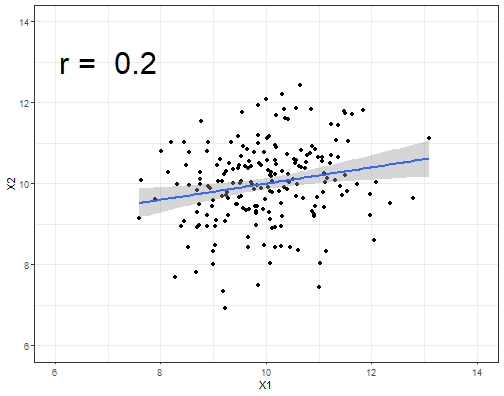
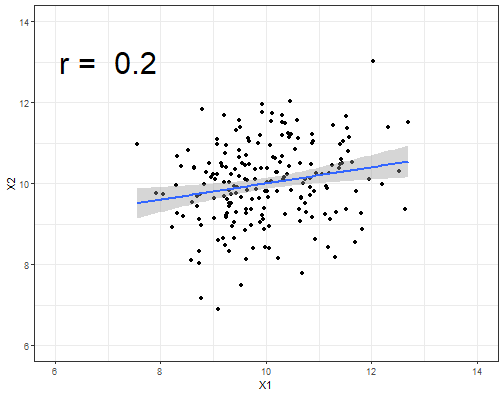
Lecture 1 updates

diff --git a/Lecture-01-messy-data.html b/Lecture-01-messy-data.html
@@ -65,22 +65,22 @@ Join the class workspace on RStudio.cloud.
 ## # A tibble: 16 x 4
 ##    Participant Viewpoint Block     RT
 ##          &lt;int&gt; &lt;fct&gt;     &lt;chr&gt;  &lt;dbl&gt;
-##  1           1 Different First   505.
-##  2           1 Different Second  451.
-##  3           1 Same      First   469.
-##  4           1 Same      Second  482.
-##  5           2 Different First   574.
-##  6           2 Different Second  365.
-##  7           2 Same      First   462.
-##  8           2 Same      Second  388.
-##  9           3 Different First   578.
-## 10           3 Different Second  402.
-## 11           3 Same      First   553.
-## 12           3 Same      Second  411.
-## 13           4 Different First   560.
-## 14           4 Different Second  376.
-## 15           4 Same      First   472.
-## 16           4 Same      Second  394.
+##  1           1 Different First   440.
+##  2           1 Different Second  440.
+##  3           1 Same      First   461.
+##  4           1 Same      Second  378.
+##  5           2 Different First   553.
+##  6           2 Different Second  362.
+##  7           2 Same      First   588.
+##  8           2 Same      Second  308.
+##  9           3 Different First   554.
+## 10           3 Different Second  378.
+## 11           3 Same      First   497.
+## 12           3 Same      Second  393.
+## 13           4 Different First   605.
+## 14           4 Different Second  337.
+## 15           4 Same      First   505.
+## 16           4 Same      Second  481.
 ```
 ]
 .pull-right[
@@ -161,13 +161,13 @@ t.test(RT~Block, data = example_rt_df)
 ## 	Welch Two Sample t-test
 ## 
 ## data:  RT by Block
-## t = 15.903, df = 190.76, p-value &lt; 2.2e-16
+## t = 17.945, df = 192.83, p-value &lt; 2.2e-16
 ## alternative hypothesis: true difference in means is not equal to 0
 ## 95 percent confidence interval:
-##   86.2677 110.6969
+##   99.84277 124.49988
 ## sample estimates:
 ##  mean in group First mean in group Second 
-##             502.2756             403.7933
+##             508.7604             396.5891
 ```
 
 ---
@@ -187,10 +187,10 @@ aov_ez(dv = "RT",
 ## Anova Table (Type 3 tests)
 ## 
 ## Response: RT
-##            Effect    df     MSE          F   ges p.value
-## 1           Block 1, 49 2285.87 212.15 ***   .56  &lt;.0001
-## 2       Viewpoint 1, 49 2188.61       1.46  .008     .23
-## 3 Block:Viewpoint 1, 49 1161.32       0.05 .0001     .83
+##            Effect    df     MSE          F    ges p.value
+## 1           Block 1, 49 1837.04 342.46 ***    .62  &lt;.0001
+## 2       Viewpoint 1, 49 1744.11       0.01 &lt;.0001     .92
+## 3 Block:Viewpoint 1, 49 2406.41       0.60   .004     .44
 ## ---
 ## Signif. codes:  0 '***' 0.001 '**' 0.01 '*' 0.05 '+' 0.1 ' ' 1
 ```
@@ -237,16 +237,16 @@ Data can be *missing*...
 
 ```
 ##           X1        X2
-## 1         NA  9.695420
-## 2         NA  9.621483
-## 3         NA 10.723804
-## 4         NA 10.386785
-## 5         NA  7.815597
-## 6   9.376787        NA
-## 7  10.182705        NA
-## 8   9.466135 11.174322
-## 9  11.053890 10.538513
-## 10  9.179338  7.334967
+## 1         NA  7.488500
+## 2         NA 10.586179
+## 3         NA 11.387960
+## 4         NA  6.895894
+## 5         NA 13.008935
+## 6   8.744998        NA
+## 7  10.090868        NA
+## 8   9.394213  9.043452
+## 9  10.014256 10.034693
+## 10  9.294777  9.518317
 ```
 Complete cases = 193
 ]
@@ -511,17 +511,13 @@ Reciprocal | 1 / X|
 ---
 # Transformation of skewed data
 
-The different transformations each have different effects on the data, but the general pattern is that they (mostly) reduce the skew, bringing extreme values closer to the centre of the distribution.
+The different transformations each have different effects on the data, but the general pattern on right-tailed data is that they (mostly) reduce the skew, bringing extreme values closer to the centre of the distribution. The transformations aren't as effective on left-tailed data.
 
+Moral: consider alternatives to transformations... (see later!)
+.pull-left[
 ![](Lecture-01-messy-data_files/figure-html/unnamed-chunk-24-1.png)&lt;!-- --&gt;
-
-
----
-# Transformations on left-tailed data
-
-The transformations aren't as effective on left-tailed data.
-
-.center[
+]
+.pull-right[
 ![](Lecture-01-messy-data_files/figure-html/unnamed-chunk-25-1.png)&lt;!-- --&gt;
 ]
 
@@ -560,16 +556,16 @@ For example, all your participants filled out three different questionnaires. Un
 
 ```
 ##           X1        X2       X3
-## 1         NA 10.576818 14.13549
-## 2         NA  8.387305 11.94744
-## 3         NA  9.826288 11.21480
-## 4         NA 10.293933 12.47408
-## 5         NA 10.577984 13.65410
-## 6   9.470200 10.443275 13.45557
-## 7  10.489298  8.246108 13.69352
-## 8   8.563670  8.531161 11.85204
-## 9  10.841521  9.653558 12.73267
-## 10  9.340633  9.811812 12.06431
+## 1         NA  8.876666 12.12049
+## 2         NA  8.643999 10.32451
+## 3         NA  8.659720 12.43256
+## 4         NA 10.804931 12.47942
+## 5         NA  9.336932 15.14802
+## 6  10.335008  8.919503 12.58195
+## 7   9.370765  9.399255 11.84693
+## 8   8.369429  8.824399 14.39454
+## 9   9.990678  8.516881 13.10203
+## 10 10.988883  7.694130 13.98738
 ```
 ]
 
@@ -580,16 +576,16 @@ For example, all your participants filled out three different questionnaires. Un
 
 ```
 ##           X1        X2       X3 age
-## 1  10.860892  7.607152 12.66804  18
-## 2  10.990725  7.356898 13.83641  18
-## 3  11.045681  7.666954 12.59257  18
-## 4   9.774002  8.564610 13.60880  19
-## 5  10.360665 10.041196 10.93219  18
-## 6  10.249814 10.335564 11.67593  20
-## 7   9.065221  9.980548 14.50280  20
-## 8  10.360480  9.494207 13.28086  18
-## 9  10.396769  9.113957 14.04823  19
-## 10  9.392164  9.427506 13.32674  18
+## 1  10.811026  9.330420       NA  55
+## 2   8.187208  9.377605 12.46555  19
+## 3   8.967636  7.951374 11.03670  19
+## 4  10.438743  7.572869 12.49227  19
+## 5   9.562463  8.610711 13.85732  21
+## 6  11.262023  9.094062 11.69346  20
+## 7   9.134838  8.441877 12.34938  18
+## 8   9.519009  9.533933 14.26666  21
+## 9  11.032269 10.744527 14.48707  20
+## 10  9.644013  9.239952 12.02963  21
 ```
 ]
 .pull-right[
@@ -606,17 +602,17 @@ This data is MAR - whether the data in the third column is missing is related to
 .pull-left[
 
 ```
-##           X1        X2        X3 age
-## 1  10.079248 11.096381 11.773827  19
-## 2   9.750598  8.639340        NA  20
-## 3   8.907270  9.060809 12.434749  41
-## 4   9.984428  8.856411        NA  20
-## 5  10.567424  9.868629        NA  19
-## 6  10.174461  9.572152 12.670256  19
-## 7   9.571016  6.903336 11.407531  18
-## 8   8.069565  9.560714  9.810957  19
-## 9   9.001742  8.576938 11.538140  20
-## 10 10.385438  7.406013 13.236939  34
+##           X1        X2       X3 age
+## 1  13.292053 11.187397       NA  18
+## 2  10.402303  7.208469 13.06662  21
+## 3   8.444334 10.681243 13.03315  20
+## 4   9.776708  9.831171       NA  19
+## 5   8.052205  6.698294 13.11379  21
+## 6  10.008199  8.412695 12.74497  20
+## 7  10.622796 10.992266 12.29959  20
+## 8   9.587762  8.434222 12.75297  19
+## 9  10.206192  8.332482 13.40576  18
+## 10 10.037463  9.430422       NA  54
 ```
 ]
 .pull-right[
@@ -652,7 +648,7 @@ mean(temp_df_missing$X1, na.rm = TRUE)
 ```
 
 ```
-## [1] 10.01195
+## [1] 9.977449
 ```
 
 ```r
@@ -662,16 +658,6 @@ sum(complete.cases(temp_df_missing))
 ```
 ## [1] 193
 ```
-]
-
----
-# Problems with deletion
-
-.pull-left[Deletion can be wasteful, throwing out a lot of otherwise good data.
-
-And if the data is Missing Not At Random, the data is not representative of the full range of the variable of interest!]
-.pull-right[
-
 ]
 
 ---
